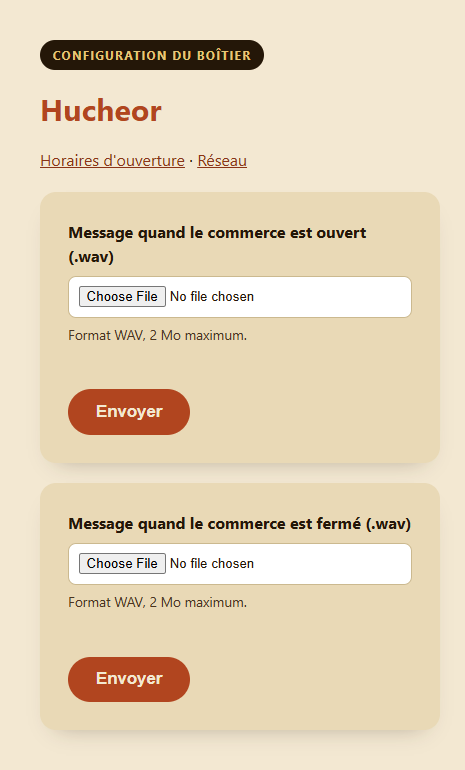
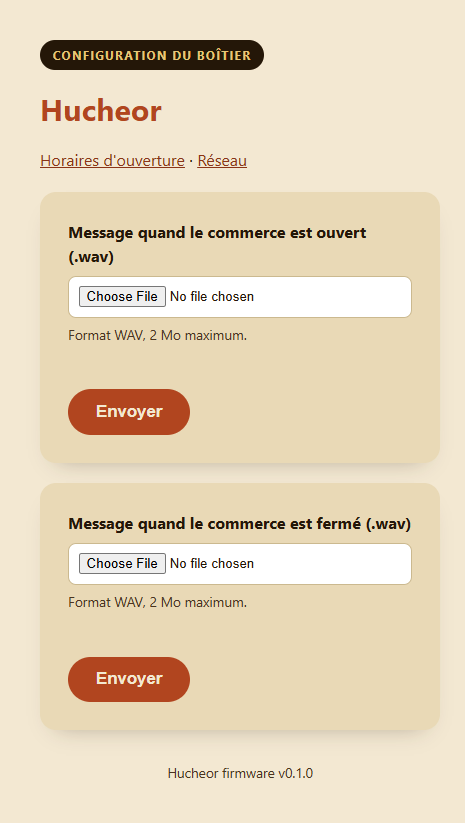
feat: versionne le firmware via tag Git, affiche dans le pied de page
Meme pattern que les apps mobiles (voir admin repo
docs/mobile-app-releases.md) : firmware/scripts/gen_version.py genere
firmware/include/version.h a partir de FIRMWARE_VERSION (jamais
committe), fixe au tag Git par le nouveau workflow release.yml
(declenche par push d'un tag vX.Y.Z), "dev" sinon. Affiche en pied de
page de chaque page du serveur de config embarque.

diff --git a/docs/mockups/wifi.html b/docs/mockups/wifi.html
@@ -42,4 +42,5 @@ Le boîtier est connecté au réseau WiFi <strong>Boulangerie-Duval</strong>. Il
 <p class="hint">Laissez le nom de réseau vide et enregistrez pour revenir au point d'accès autonome. Le serveur NTP n'est utilisé que si le boîtier rejoint un réseau WiFi. Le boîtier redémarre pour appliquer le changement.</p>
 <button type="submit">Enregistrer et redémarrer</button>
 </form></div>
+<p class="hint" style="margin-top:2rem;text-align:center">Hucheor firmware v0.1.0</p>
 </body></html>

diff --git a/docs/mockups/schedule.html b/docs/mockups/schedule.html
@@ -118,4 +118,5 @@ border-bottom:1px solid #cbb98f}
 <p class="hint">Laissez début à 0 pour désactiver une ligne.</p>
 <button type="submit">Enregistrer les semaines</button>
 </form></div>
+<p class="hint" style="margin-top:2rem;text-align:center">Hucheor firmware v0.1.0</p>
 </body></html>

diff --git a/docs/mockups/index.html b/docs/mockups/index.html
@@ -45,4 +45,5 @@ nav{margin:1rem 0}
 <button type="submit">Envoyer</button>
 </form>
 </div>
+<p class="hint" style="margin-top:2rem;text-align:center">Hucheor firmware v0.1.0</p>
 </body></html>

diff --git a/firmware/src/config_server.cpp b/firmware/src/config_server.cpp
@@ -6,8 +6,16 @@
 
 #include "network.h"
 #include "schedule.h"
+#include "version.h" // generated at build time, see scripts/gen_version.py
 
 namespace {
+
+// Shown at the bottom of every config page - lets a shopkeeper (or, more
+// realistically, whoever is helping them remotely) tell at a glance whether
+// the device is running an official tagged release or a local dev build.
+#define HUCHEOR_FOOTER \
+  "<p class=\"hint\" style=\"margin-top:2rem;text-align:center\">Hucheor firmware " \
+  FIRMWARE_VERSION "</p>"
 
 AsyncWebServer server(80);
 Preferences prefs;
@@ -131,6 +139,7 @@ const char INDEX_HTML[] PROGMEM =
     "<button type=\"submit\">Envoyer</button>"
     "</form>"
     "</div>"
+    HUCHEOR_FOOTER
     "</body></html>";
 
 const char SUCCESS_HTML[] PROGMEM =
@@ -146,6 +155,7 @@ const char SUCCESS_HTML[] PROGMEM =
     "<p>Le message audio a bien &eacute;t&eacute; mis &agrave; jour.</p>"
     "<p class=\"hint\"><a href=\"/\">Retour</a></p>"
     "</div>"
+    HUCHEOR_FOOTER
     "</body></html>";
 
 bool requireAuth(AsyncWebServerRequest *request) {
@@ -246,6 +256,7 @@ String buildScheduleHtml(int currentModel) {
   html += "<p class=\"hint\">Laissez d&eacute;but &agrave; 0 pour d&eacute;sactiver une ligne.</p>"
           "<button type=\"submit\">Enregistrer les semaines</button>"
           "</form></div>"
+          HUCHEOR_FOOTER
           "</body></html>";
   return html;
 }
@@ -378,8 +389,10 @@ void begin() {
             "<p class=\"hint\">Laissez le nom de r&eacute;seau vide et enregistrez pour revenir au "
             "point d'acc&egrave;s autonome. Le serveur NTP n'est utilis&eacute; que si le bo&icirc;tier rejoint un "
             "r&eacute;seau WiFi. Le bo&icirc;tier red&eacute;marre pour appliquer le changement.</p>"
-            "<button type=\"submit\">Enregistrer et redemarrer</button>"
-            "</form></div></body></html>";
+            "<button type=\"submit\">Enregistrer et red&eacute;marrer</button>"
+            "</form></div>"
+            HUCHEOR_FOOTER
+            "</body></html>";
     request->send(200, "text/html", html);
   });
 

diff --git a/firmware/scripts/gen_version.py b/firmware/scripts/gen_version.py
@@ -1,0 +1,16 @@
+Import("env")
+
+import os
+
+# Mirrors the mobile apps' release pattern (see admin repo docs/mobile-app-releases.md):
+# the version is never committed in source, it is stamped in at build time from a Git
+# tag. Local/dev builds (no FIRMWARE_VERSION env var, e.g. CI's push/PR build) fall back
+# to "dev" so it is always obvious a binary was not built from a tagged release.
+version = os.environ.get("FIRMWARE_VERSION", "dev")
+
+header_dir = os.path.join(env.subst("$PROJECT_DIR"), "include")
+os.makedirs(header_dir, exist_ok=True)
+
+with open(os.path.join(header_dir, "version.h"), "w") as f:
+    f.write("#pragma once\n")
+    f.write('#define FIRMWARE_VERSION "{}"\n'.format(version))

diff --git a/README.md b/README.md
@@ -142,7 +142,8 @@ connection attempt at boot (up to 15s, before anything else has started).
 `firmware/src/config_server.{h,cpp}`. A small embedded HTTP server (no external assets, works
 fully offline on the standalone AP) for the shopkeeper to configure the beacon from any phone
 browser - no app required for setup. Protected by HTTP Digest Auth (a 12-digit code, generated
-once per device, never sent in clear text over the network - see [Security](#security)).
+once per device, never sent in clear text over the network - see [Security](#security)). Every
+page's footer shows the running firmware version (see [Versioning](#versioning)).
 
 | Page | What it's for |
 |---|---|
@@ -217,12 +218,28 @@ constrained to physical WiFi proximity - not a service exposed to the internet).
 
 ## Continuous integration
 
-Two scheduled/triggered GitHub Actions workflows:
+Three GitHub Actions workflows:
 - **Build** (`.github/workflows/build-firmware.yml`): compiles the firmware on every push/PR that
   touches `firmware/`.
 - **Dependency check** (`.github/workflows/check-deps.yml`): runs weekly (and on demand), checks
   for outdated PlatformIO packages, and opens/closes a GitHub issue automatically depending on the
   result.
+- **Release** (`.github/workflows/release.yml`): triggered by pushing a `vX.Y.Z` tag. Builds the
+  firmware with that version stamped in (see [Versioning](#versioning) below) and publishes a
+  GitHub Release with the compiled `firmware.bin`/`firmware.elf` attached.
+
+## Versioning
+
+The version shown at the bottom of every [config UI](#configuration-ui) page comes from the Git
+tag used to build that firmware, never a hardcoded value in source. `firmware/scripts/gen_version.py`
+(a PlatformIO pre-build script) generates `firmware/include/version.h` from the `FIRMWARE_VERSION`
+environment variable, set to the pushed tag by the release workflow above - falls back to `"dev"`
+for any build that isn't triggered by a tag (local builds, the plain CI build/PR checks), so it's
+always obvious whether a given firmware came from an official release. Same pattern as this
+ecosystem's mobile apps (see the admin repo's `docs/mobile-app-releases.md`): the version is
+stamped in at build time, never committed.
+
+To cut a release: `git tag vX.Y.Z && git push origin vX.Y.Z`.
 
 ## Building the firmware
 
